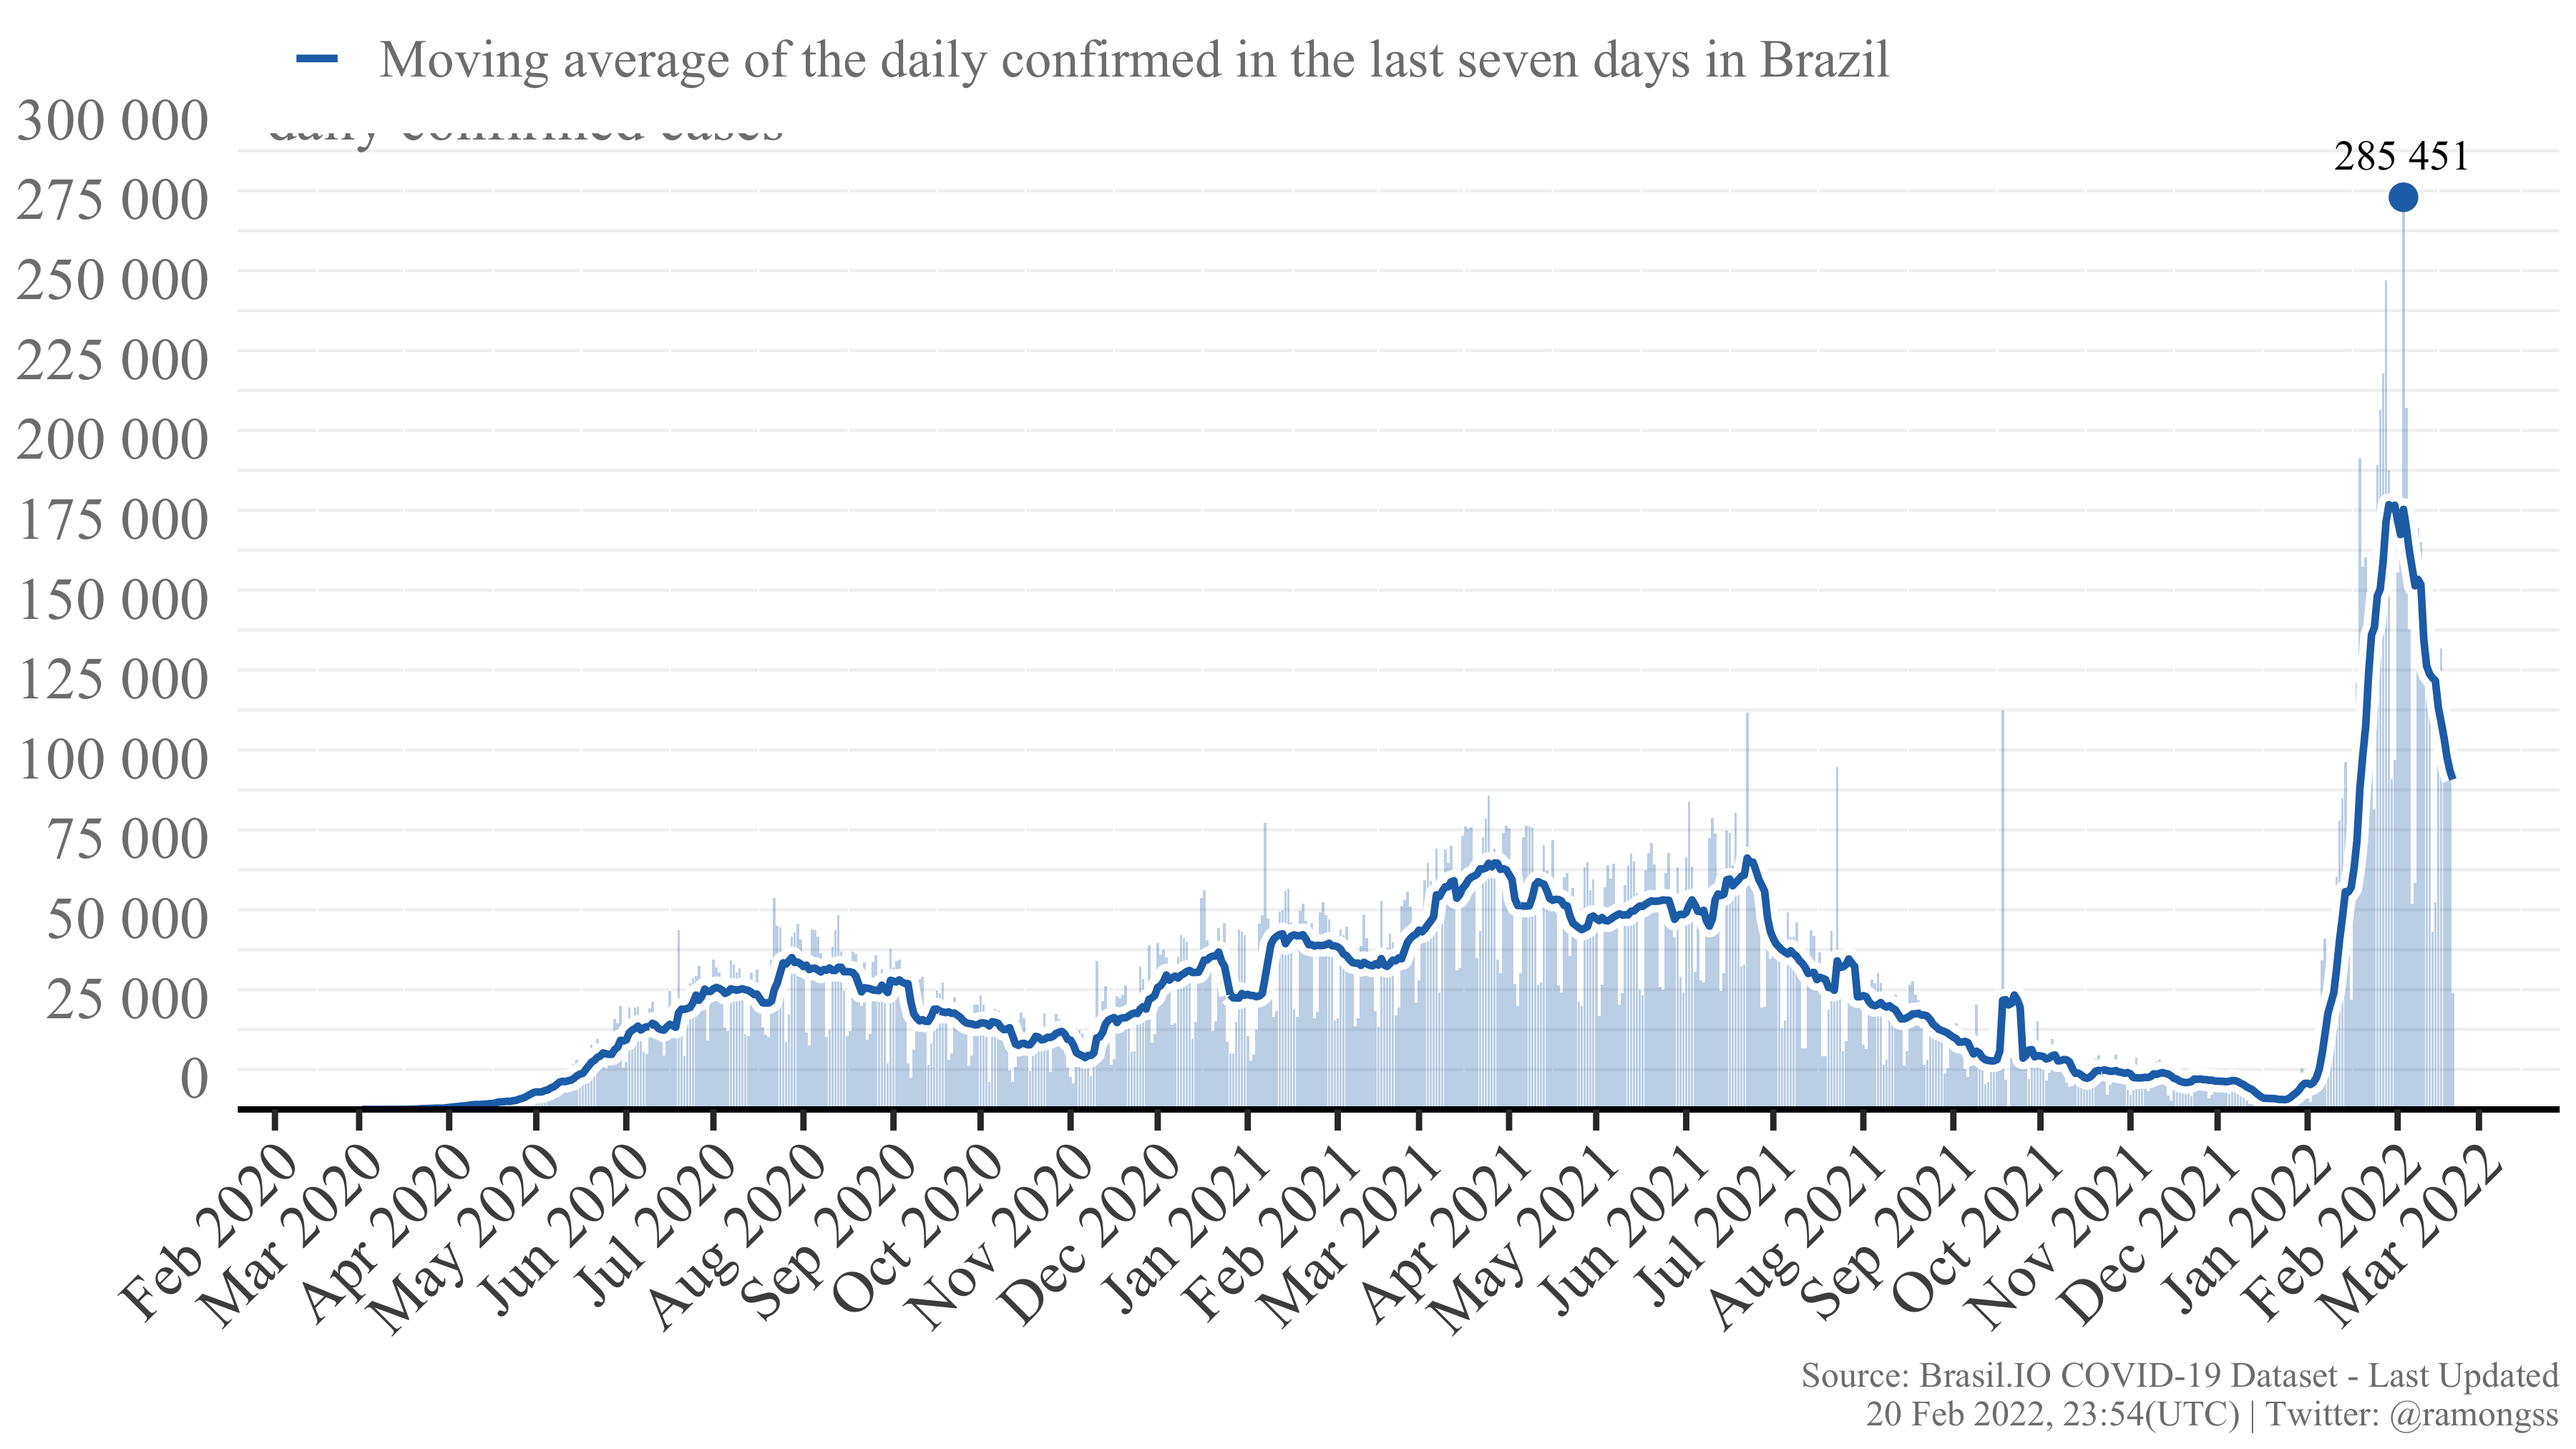
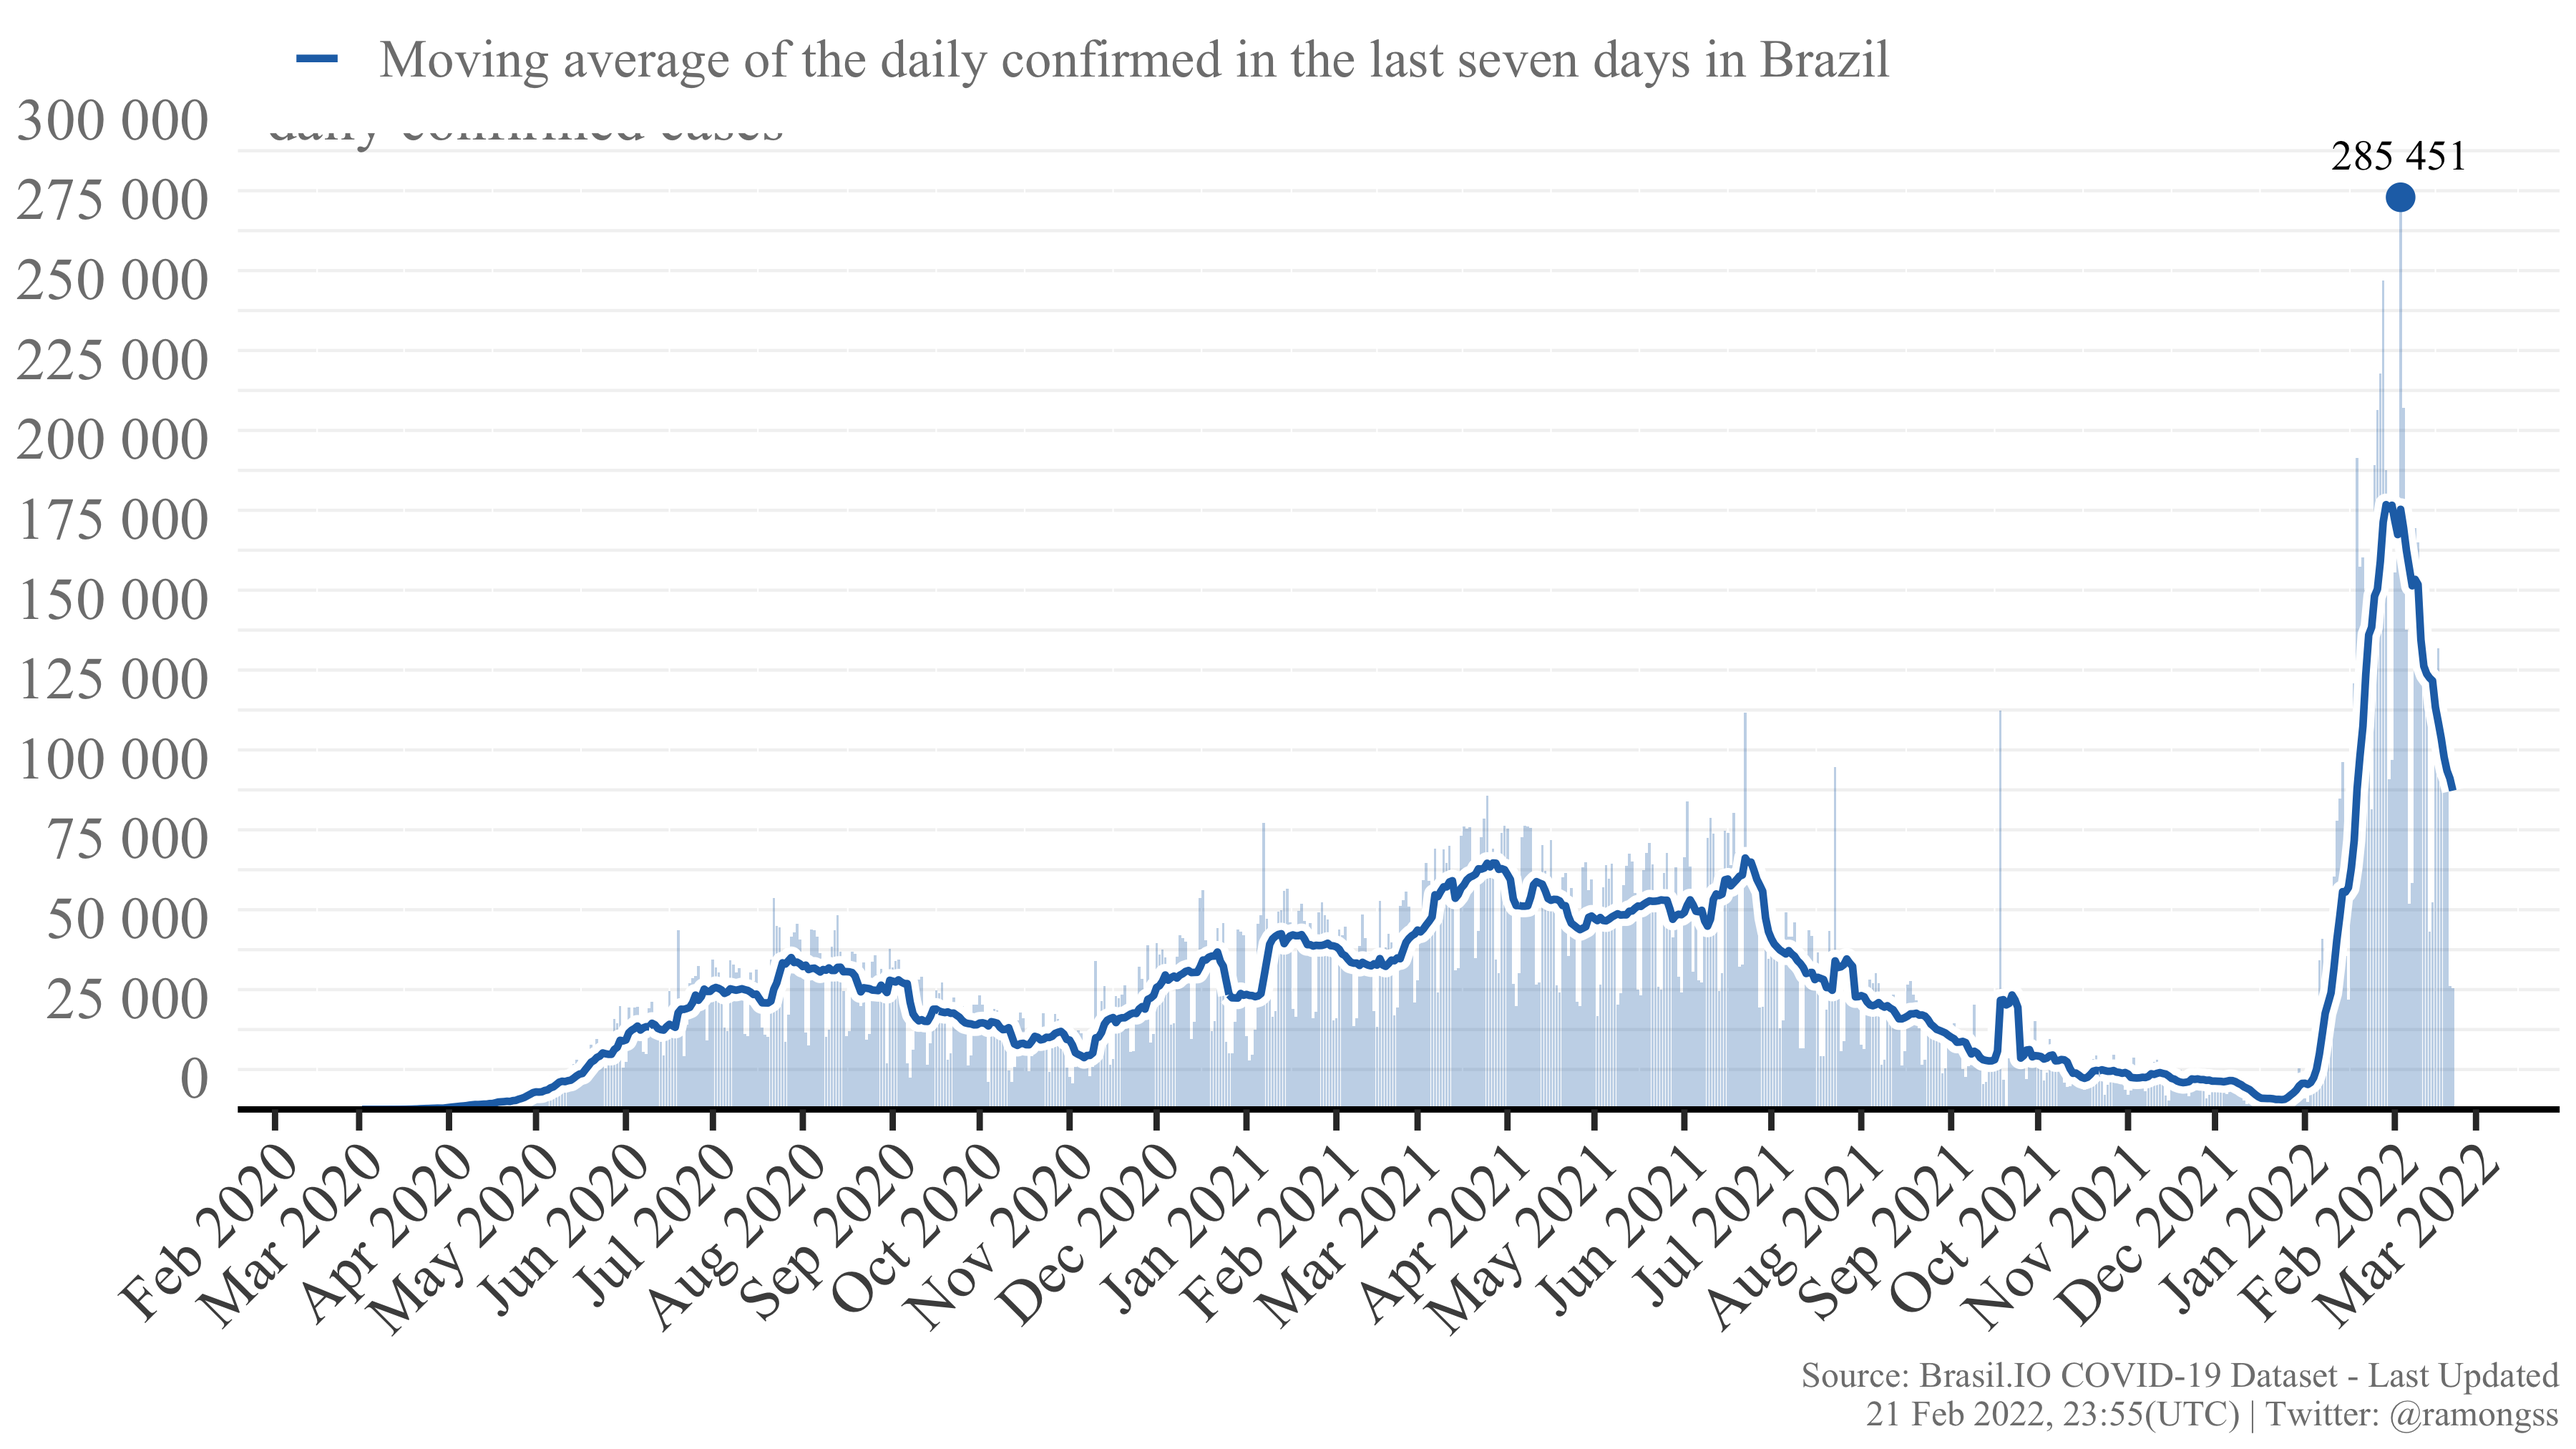
Re-build README.Rmd

diff --git a/README.md b/README.md
@@ -27,8 +27,8 @@ download_brasilio_table <- function(dataset = "covid19", table_name){
 
 ## COVID-19 Confirmed cases
 
-Currently, Brazil has a total of **28,218,180** confirmed cases at **20
-Feb, 2022**, with **36,328** new confirmed cases. The daily maximum
+Currently, Brazil has a total of **28,258,458** confirmed cases at **21
+Feb, 2022**, with **37,955** new confirmed cases. The daily maximum
 incidence was **285,451** confirmed cases at **03 Feb, 2022**. Here
 follows the Figure showing the confirmed case incidence as the bars, and
 the line as the moving average of the last 7 days.
@@ -37,8 +37,8 @@ the line as the moving average of the last 7 days.
 
 ## COVID-19 Deaths
 
-Currently, Brazil has a total of **644,592** deaths at **20 Feb, 2022**,
-with **379** new deaths. The daily maximum deaths incidence was
+Currently, Brazil has a total of **644,918** deaths at **21 Feb, 2022**,
+with **306** new deaths. The daily maximum deaths incidence was
 **4,148** deaths at **08 Apr, 2021**. Here follows the Figure showing
 the deaths incidence as the bars, and the line as the moving average of
 the last 7 days.
@@ -49,4 +49,4 @@ the last 7 days.
 
 This page is daily updated automatically using Github Actions.
 
-*Last update: 20 Feb 2022, 23:54 (UTC).*
+*Last update: 21 Feb 2022, 23:55 (UTC).*
